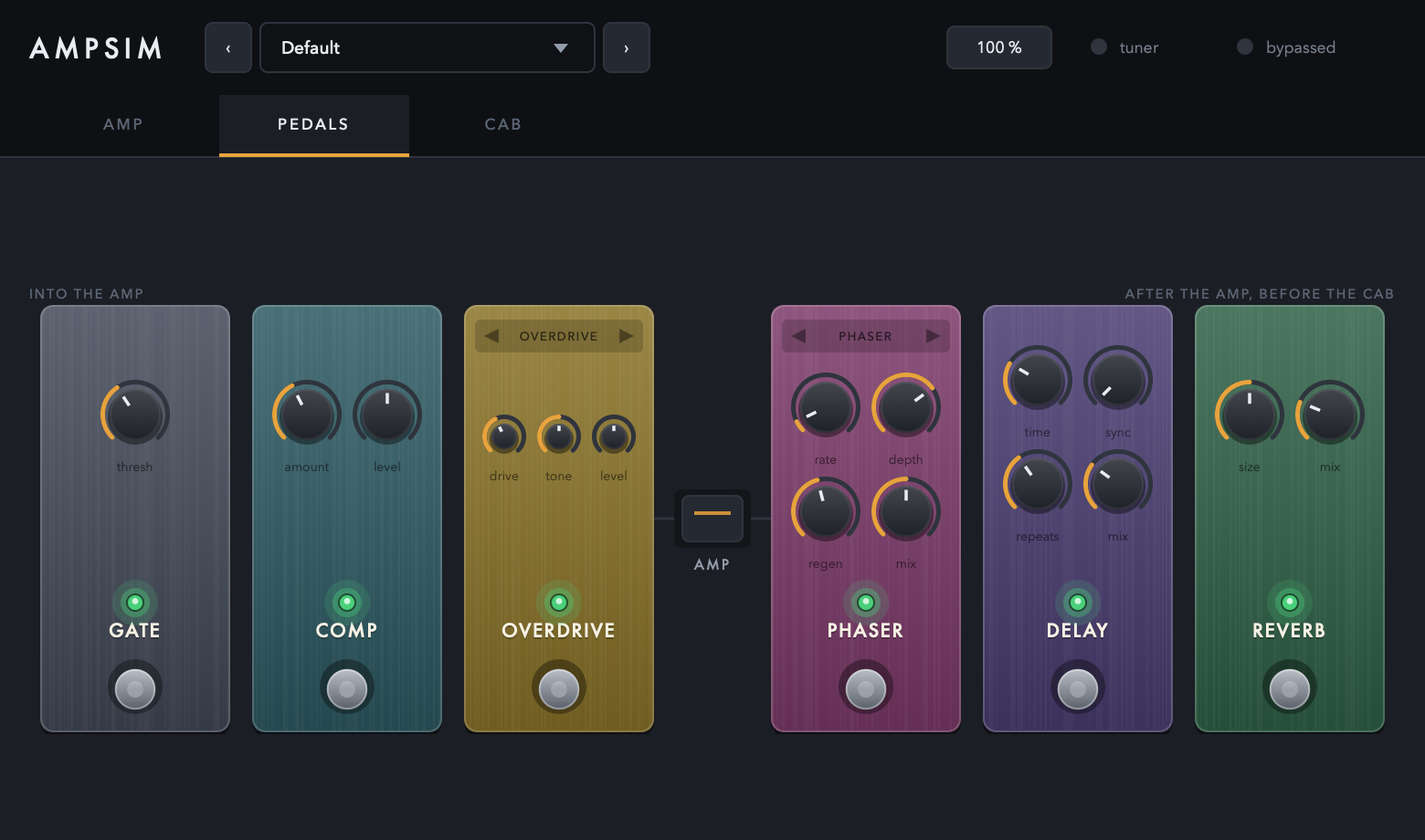
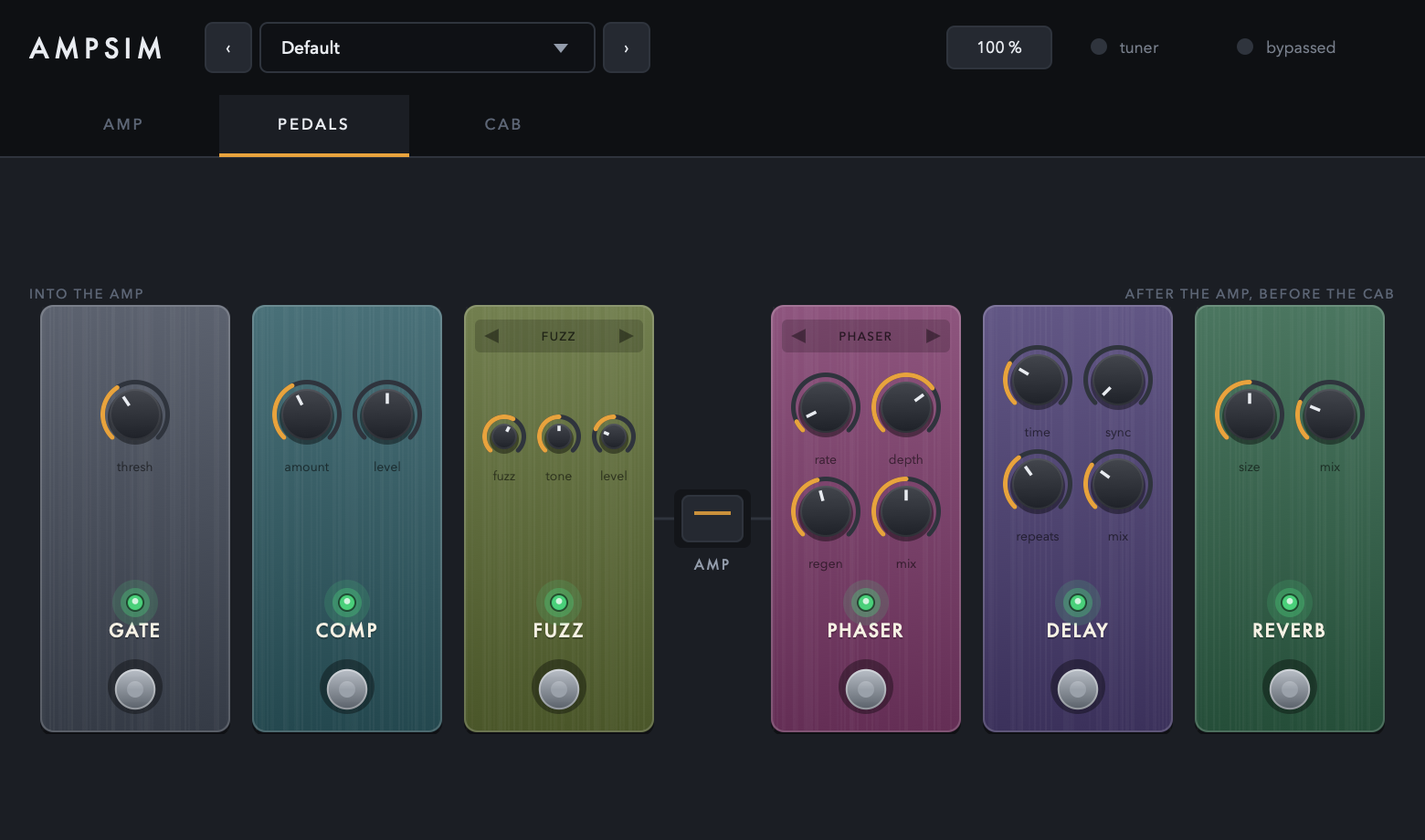
Add a fuzz to the dirt slot, and fix the slot's names selecting the wrong pedal
The fuzz is a fourth choice, and it is not a distortion turned up. Its clipper is
offset so that its operating point sits below the range it will pass: a silent
input produces a constant, a small one crosses in on its positive half only, and
a loud one fills the range and squares off lopsidedly. That is where the second
harmonic and the splutter as a note dies both come from, and neither appears by
adding gain to a symmetric clipper. Measured: the second harmonic sits more than
20 dB above the distortion's, and a signal under its threshold comes out 54 dB
quieter than the same signal through the distortion, while a loud one passes in
full.

The slot now blocks DC on its way out, at 15 Hz in the oversampled path. The
fuzz needs it — its offset is the whole mechanism — and the overdrive's
asymmetric shaper has been quietly producing a smaller one all along, which the
tone control was tilting and the amp model was being given.

**And the names were selecting the wrong pedals, which shipped.** The Type enum
ran overdrive, distortion, cleanBoost while the parameter's choices read
Distortion, Overdrive, Clean Boost, and the processor turns that index straight
into a Type — so choosing Distortion gave the overdrive's circuit and choosing
Overdrive gave the distortion's. It sounds like a different pedal rather than
like a bug, which is why nothing caught it. The enum, the choice list and the
drawn pedal's variants are now one order in three places, and a test asserts
[…]

Changed region(s): [[0.3077, 0.3652, 0.4615, 0.8826]]

diff --git a/docs/guide/index.html b/docs/guide/index.html
@@ -367,7 +367,7 @@
         { x: 9.5, y: 81.7, title: "Footswitches and LEDs", body: "<p>A pedal is switched in and out with its footswitch, and its LED lights <b>green</b> when it is in your signal — the same green the tuner lamp uses.</p><p>The switch sits down while it is on, the way a latching stomp switch does.</p>" },
         { x: 9.5, y: 50.7, title: "Gate", body: "<p>Listens at the very front, to your guitar before anything has touched it, and closes on the other side of the amp — so it silences the amp's own hiss, not just noise arriving at the input.</p><ul><li><b>thresh</b>: −80 to −40 dB of your raw guitar, opening at −65 dB by default.</li><li>It closes gently — 3:1 rather than a hard cut — so a note that decays past the threshold fades instead of being chopped.</li></ul><p>Set it as low as will still silence your hum. Too high and the tails of held notes go with it.</p>" },
         { x: 24.4, y: 50.7, title: "Compressor", body: "<p>A single <b>amount</b> knob runs the threshold down and the ratio up together, so it goes from a gentle levelling to a squashed, sustaining sound without three controls to balance.</p><ul><li><b>amount</b>: 0 to 1, 0.4 by default.</li><li><b>level</b>: ±12 dB of make-up, for matching the level with the pedal off.</li></ul>" },
-        { x: 39.2, y: 50.7, title: "The dirt slot", body: "<p>One of three pedals, chosen with the arrows across the top. Whatever is in it is oversampled four times, so none of them alias, and the slot reports the same latency whichever you pick.</p><ul><li><b>Distortion</b> \u2014 more gain, a harder knee, and the whole range going into the clipper. It makes its own sound rather than leaning on the amp's.</li><li><b>Overdrive</b> \u2014 the screamer. Only what is above about 700 Hz is driven hard, so the low end keeps its shape. This is the one that pushes an amp rather than replacing it; try <b>drive</b> low and <b>level</b> high.</li><li><b>Clean boost</b> \u2014 no clipping at all, just level and a tilt. What it drives is the amp.</li></ul>" },
+        { x: 39.2, y: 50.7, title: "The dirt slot", body: "<p>One of four pedals, chosen with the arrows across the top. Whatever is in it is oversampled four times, so none of them alias, and the slot reports the same latency whichever you pick.</p><ul><li><b>Distortion</b> \u2014 more gain, a harder knee, and the whole range going into the clipper. It makes its own sound rather than leaning on the amp's.</li><li><b>Overdrive</b> \u2014 the screamer. Only what is above about 700 Hz is driven hard, so the low end keeps its shape. This is the one that pushes an amp rather than replacing it; try <b>drive</b> low and <b>level</b> high.</li><li><b>Fuzz</b> \u2014 not a distortion turned up. Its clipper is offset, so a small signal only gets through on one half of the cycle and a very small one does not get through at all: that is the lopsided sound and the splutter as a note dies. Far more gain than the others, so its level starts lower.</li><li><b>Clean boost</b> \u2014 no clipping at all, just level and a tilt. What it drives is the amp.</li></ul>" },
         { x: 60.8, y: 50.7, title: "The modulation slot", body: "<p>One of four, again chosen with the arrows. All of them move something with a slow oscillator, and what they move is the whole difference.</p><ul><li><b>Chorus</b> \u2014 a delayed copy whose delay wanders, mixed back in: two instruments almost in tune with each other.</li><li><b>Flanger</b> \u2014 the same idea with a far shorter delay and the output fed back, so the comb is deep enough to hear as a sweep. <b>regen</b> sharpens it.</li><li><b>Phaser</b> \u2014 no delay at all: all-pass filters whose corner moves, notching the spectrum where their phase shift meets the dry signal.</li><li><b>Tremolo</b> \u2014 nothing moves but the volume. <b>shape</b> runs from a sine to something close to a square, which is the difference between a valve tremolo and a chopper.</li></ul><p>Whichever is in the slot keeps running while it is switched out, so engaging it picks up a sweep already going rather than one starting from the top.</p>" },
         { x: 75.6, y: 50.7, title: "Delay", body: "<p><ul><li><b>time</b>: 20 ms to 1.2 s, shown in milliseconds. Ignored while <b>sync</b> is set to a note length.</li> <li><b>sync</b>: <b>Free</b>, or a note length from 1/2 down to 1/16, including dotted and triplet. The repeats then follow your host's tempo and move with it. A standalone has no tempo to follow, so it assumes 120 BPM.</li><li><b>repeats</b>: up to 0.95 — high, but short of self-oscillation.</li><li><b>mix</b>.</li></ul></p><p>Like the chorus, it keeps running while off, so switching it on does not start the line empty.</p>" },
         { x: 90.5, y: 50.7, title: "Reverb", body: "<p><b>size</b> and <b>mix</b>. Last in the chain before the cabinet, so the tail comes out through the speaker rather than around it.</p><p><b>mix</b> adds reverb to your signal rather than trading one for the other: your dry sound stays where it is at every setting, and at the top of the control the reverb reaches the same level as it.</p>" }

diff --git a/tests/PedalTests.cpp b/tests/PedalTests.cpp
@@ -870,3 +870,121 @@ TEST_CASE ("Changing what is in a slot fades rather than cutting", "[pedals]")
     // block during the change is far quieter than the slot ever gets when nothing changes.
     REQUIRE (switchedQuietest < 0.3f * baselineQuietest);
 }
+
+TEST_CASE ("Choosing a pedal by name gets the pedal with that name", "[pedals]")
+{
+    // The parameter's choice list, the Type enum and the variants on the drawn pedal are one list
+    // written in three places, and nothing but this test holds them together. They came apart
+    // once: every name selected its neighbour's circuit, which sounds like a different pedal
+    // rather than like a bug, so nothing else noticed.
+    auto processor = test::makePreparedProcessor();
+    auto& state = processor->getValueTreeState();
+
+    auto* choice = dynamic_cast<juce::AudioParameterChoice*> (state.getParameter (ParamID::dirtType));
+    REQUIRE (choice != nullptr);
+
+    const auto indexOf = [&choice] (const juce::String& name)
+    {
+        const auto index = choice->choices.indexOf (name);
+        REQUIRE (index >= 0);
+        return index;
+    };
+
+    // The names, in the order the enum gives them.
+    REQUIRE (indexOf ("Distortion")  == (int) DirtPedal::Type::distortion);
+    REQUIRE (indexOf ("Overdrive")   == (int) DirtPedal::Type::overdrive);
+    REQUIRE (indexOf ("Fuzz")        == (int) DirtPedal::Type::fuzz);
+    REQUIRE (indexOf ("Clean Boost") == (int) DirtPedal::Type::cleanBoost);
+
+    // And the same for the modulation slot.
+    auto* modulation = dynamic_cast<juce::AudioParameterChoice*> (state.getParameter (ParamID::modulationType));
+    REQUIRE (modulation != nullptr);
+
+    REQUIRE (modulation->choices.indexOf ("Chorus")  == (int) ModulationPedal::Type::chorus);
+    REQUIRE (modulation->choices.indexOf ("Flanger") == (int) ModulationPedal::Type::flanger);
+    REQUIRE (modulation->choices.indexOf ("Phaser")  == (int) ModulationPedal::Type::phaser);
+    REQUIRE (modulation->choices.indexOf ("Tremolo") == (int) ModulationPedal::Type::tremolo);
+}
+
+TEST_CASE ("The fuzz is lopsided where the distortion is not", "[pedals]")
+{
+    // What separates a fuzz from a distortion at the same setting: its clipper is offset, so the
+    // two halves of the wave are treated differently and the second harmonic comes up. A
+    // symmetric clipper cannot make one however hard it is driven.
+    const auto secondHarmonicDb = [] (DirtPedal::Type type)
+    {
+        constexpr double frequency = 220.0;
+
+        PedalChain::Settings settings;
+        settings.driveEngaged = true;
+        settings.dirtType = type;
+        settings.driveAmount = 0.6f;
+        settings.driveTone = 0.5f;
+
+        auto chain = makeChain (settings);
+
+        const auto input = Signal::sine (frequency, test::blockSize * 60, 0.2f);
+        const auto output = runThrough (*chain, input, true);
+
+        // One bin of a DFT, by hand: correlate against a sine and a cosine at the frequency.
+        const auto magnitudeAt = [&output] (double hz)
+        {
+            double real = 0.0, imaginary = 0.0;
+            const auto from = (size_t) (test::blockSize * 30);
+
+            for (size_t i = from; i < output.size(); ++i)
+            {
+                const auto phase = juce::MathConstants<double>::twoPi * hz * (double) (i - from) / sr;
+                real += output[i] * std::cos (phase);
+                imaginary += output[i] * std::sin (phase);
+            }
+
+            return std::sqrt (real * real + imaginary * imaginary);
+        };
+
+        return juce::Decibels::gainToDecibels ((float) (magnitudeAt (2.0 * frequency)
+                                                            / juce::jmax (1.0e-12, magnitudeAt (frequency))));
+    };
+
+    const auto fuzz = secondHarmonicDb (DirtPedal::Type::fuzz);
+    const auto distortion = secondHarmonicDb (DirtPedal::Type::distortion);
+
+    INFO ("second harmonic: fuzz " << fuzz << " dB, distortion " << distortion << " dB");
+    REQUIRE (fuzz - distortion > 20.0f);
+}
+
+TEST_CASE ("The fuzz cuts off where a note dies rather than fading with it", "[pedals]")
+{
+    // Its operating point sits below what its clipper will pass, so a signal under a certain level
+    // never crosses into the range at all. That is the splutter people buy a fuzz for, and it is
+    // the reason it is not a distortion with more gain.
+    const auto levelThrough = [] (DirtPedal::Type type, float amplitude)
+    {
+        PedalChain::Settings settings;
+        settings.driveEngaged = true;
+        settings.dirtType = type;
+        settings.driveAmount = 0.5f;
+        settings.driveTone = 0.5f;
+
+        auto chain = makeChain (settings);
+
+        const auto input = Signal::sine (220.0, test::blockSize * 40, amplitude);
+        return Signal::rms (runThrough (*chain, input, true), test::blockSize * 20);
+    };
+
+    const auto quietThroughFuzz = levelThrough (DirtPedal::Type::fuzz, 5.0e-4f);
+    const auto quietThroughDistortion = levelThrough (DirtPedal::Type::distortion, 5.0e-4f);
+    const auto loudThroughFuzz = levelThrough (DirtPedal::Type::fuzz, 0.2f);
+
+    INFO ("a small signal: " << quietThroughFuzz << " through the fuzz, "
+          << quietThroughDistortion << " through the distortion");
+    INFO ("a large one through the fuzz: " << loudThroughFuzz);
+
+    // The same small signal, and the fuzz all but swallows it where the distortion merely makes
+    // it quiet — which is what a clipper does and is not what a fuzz does.
+    REQUIRE (juce::Decibels::gainToDecibels (quietThroughFuzz / quietThroughDistortion) < -20.0f);
+
+    // And a signal it will pass comes through in full, so this is a threshold rather than a pedal
+    // that has simply stopped working.
+    REQUIRE (loudThroughFuzz > 0.05f);
+}

diff --git a/src/dsp/pedals/DirtPedal.cpp b/src/dsp/pedals/DirtPedal.cpp
@@ -29,6 +29,15 @@ namespace
         return 1.5f * x - 0.5f * x * x * x;
     }
 
+    /** Clipped between two points that are not either side of zero, with the signal offset into
+        them. A silent input sits below the floor, so it produces a constant that the blocker after
+        this removes; a quiet one crosses in on its positive half only, giving the thin pulses a
+        fuzz makes as a note dies; a loud one fills the range and squares off lopsidedly. */
+    inline float shapeFuzz (float x) noexcept
+    {
+        return juce::jlimit (DirtPedal::fuzzFloor, DirtPedal::fuzzCeiling, x + DirtPedal::fuzzBias);
+    }
+
     /** How much gain the drive control puts into the shaper, per type. A distortion pedal is not
         an overdrive turned up: it starts further along and goes further. */
     inline float driveRangeDb (DirtPedal::Type type) noexcept
@@ -38,6 +47,7 @@ namespace
             case DirtPedal::Type::overdrive:  return 36.0f;
             case DirtPedal::Type::distortion: return 48.0f;
             case DirtPedal::Type::cleanBoost: return 20.0f;
+            case DirtPedal::Type::fuzz:       return 60.0f;
         }
 
         return 0.0f;
@@ -57,6 +67,12 @@ void DirtPedal::prepare (double sampleRate, int maxBlockSize)
 
     boostFilter.prepare (overSpec);
     toneFilter.prepare (overSpec);
+    dcBlocker.prepare (overSpec);
+
+    // Asymmetric clipping produces a standing offset, and the fuzz's produces a large one by
+    // design. Below anything a guitar plays, so it takes the offset and nothing else.
+    *dcBlocker.coefficients =
+        juce::dsp::IIR::ArrayCoefficients<float>::makeFirstOrderHighPass (oversampledRate, 15.0f);
 
     level.prepare (spec);
     level.setRampDurationSeconds (0.05);
@@ -81,6 +97,7 @@ void DirtPedal::reset()
     level.reset();
     boostFilter.reset();
     toneFilter.reset();
+    dcBlocker.reset();
 }
 
 int DirtPedal::getLatencySamples() const
@@ -144,6 +161,7 @@ void DirtPedal::process (float* samples, int numSamples, bool bypassed)
         updateFilters();
         boostFilter.reset();
         toneFilter.reset();
+        dcBlocker.reset();
 
         swapping = false;
         typeFade.setTargetValue (1.0f);
@@ -162,7 +180,7 @@ void DirtPedal::process (float* samples, int numSamples, bool bypassed)
     {
         auto* data = upsampled.getChannelPointer (0);
         const auto boostOnly = currentType == Type::cleanBoost;
-        const auto soft = currentType == Type::overdrive;
+        const auto type = currentType;
 
         for (size_t i = 0; i < upsampled.getNumSamples(); ++i)
         {
@@ -175,7 +193,20 @@ void DirtPedal::process (float* samples, int numSamples, bool bypassed)
                                     : input + gain * boostFilter.processSample (input);
 
             if (! boostOnly)
-                shaped = soft ? shapeSoft (shaped) : shapeHard (shaped);
+            {
+                switch (type)
+                {
+                    case Type::overdrive:  shaped = shapeSoft (shaped); break;
+                    case Type::fuzz:       shaped = shapeFuzz (shaped); break;
+                    case Type::distortion:
+                    case Type::cleanBoost:
+                    default:               shaped = shapeHard (shaped); break;
+                }
+
+                // Before the tone control, so the tilt is working on a signal that swings about
+                // zero rather than on one sitting on a shelf of its own making.
+                shaped = dcBlocker.processSample (shaped);
+            }
 
             // The tone control comes after the clipping, as it does in the box: the low pass is
             // its pivot, and what is under it and over it are mixed against each other, so the

diff --git a/src/dsp/pedals/DirtPedal.h b/src/dsp/pedals/DirtPedal.h
@@ -27,6 +27,11 @@
       - **Distortion** — more gain, a harder knee, and the whole range going into it. It makes its
         own sound instead of leaning on the amp's, which is why it can sit in front of a clean
         capture and still be a distorted guitar.
+      - **Fuzz** — not a distortion turned up. Its operating point sits near cut-off, so a small
+        signal only gets through on one half of the cycle and a very small one does not get
+        through at all. That is where the lopsided waveform, the even harmonics and the splutter
+        as a note dies away all come from, and none of them appear by adding gain to a symmetric
+        clipper.
       - **Clean boost** — no clipping at all, just level and a tilt. What it drives is the amp.
 
     Oversampled 4x whichever is selected, because a waveshaper folds harmonics above Nyquist back
@@ -36,7 +41,11 @@
 class DirtPedal
 {
 public:
-    enum class Type { overdrive, distortion, cleanBoost };
+    /** The order here is the order of the `dirtType` parameter's choices, and of the variants on
+        the pedal that selects them. The processor turns that parameter's index straight into one
+        of these, so the three lists are one list in three places — a test asserts they still line
+        up, because they did not once. */
+    enum class Type { distortion, overdrive, fuzz, cleanBoost };
 
     void prepare (double sampleRate, int maxBlockSize);
     void reset();
@@ -67,6 +76,14 @@ public:
     /** Where the tone control tilts about. */
     static constexpr double tiltCornerHz = 720.0;
 
+    /** The fuzz's operating point, as the two ends of what its clipper will pass and the offset
+        its input sits at. The floor is *above* where the offset puts a silent input, which is what
+        makes it cut off rather than fade: below a certain level nothing crosses into the range at
+        all, and just above it only the positive half does. */
+    static constexpr float fuzzFloor = -0.25f;
+    static constexpr float fuzzCeiling = 1.0f;
+    static constexpr float fuzzBias = -0.3f;
+
 private:
     void updateFilters();
 
@@ -76,7 +93,7 @@ private:
                                                   juce::dsp::Oversampling<float>::filterHalfBandPolyphaseIIR };
 
     juce::dsp::Gain<float> level;
-    juce::dsp::IIR::Filter<float> boostFilter, toneFilter;
+    juce::dsp::IIR::Filter<float> boostFilter, toneFilter, dcBlocker;
     juce::SmoothedValue<float> toneAmount, driveGain;
 
     std::atomic<Type> pendingType { Type::distortion };

diff --git a/src/PluginProcessor.cpp b/src/PluginProcessor.cpp
@@ -178,7 +178,7 @@ juce::AudioProcessorValueTreeState::ParameterLayout AmpSimAudioProcessor::create
     // saved before the slot existed lands on it and keeps its knob positions.
     layout.add (std::make_unique<juce::AudioParameterChoice> (
         juce::ParameterID { ParamID::dirtType, 1 }, "Dirt Pedal",
-        juce::StringArray { "Distortion", "Overdrive", "Clean Boost" }, 0));
+        juce::StringArray { "Distortion", "Overdrive", "Fuzz", "Clean Boost" }, 0));
     addKnob (ParamID::driveAmount, "Drive", 0.0f, 1.0f, 0.5f);
     addKnob (ParamID::driveTone, "Drive Tone", 0.0f, 1.0f, 0.5f);
     addKnob (ParamID::driveLevel, "Drive Level", -12.0f, 12.0f, 0.0f, "dB");
@@ -186,6 +186,10 @@ juce::AudioProcessorValueTreeState::ParameterLayout AmpSimAudioProcessor::create
     addKnob (ParamID::odAmount, "Overdrive", 0.0f, 1.0f, 0.4f);
     addKnob (ParamID::odTone, "Overdrive Tone", 0.0f, 1.0f, 0.5f);
     addKnob (ParamID::odLevel, "Overdrive Level", -12.0f, 12.0f, 0.0f, "dB");
+
+    addKnob (ParamID::fuzzAmount, "Fuzz", 0.0f, 1.0f, 0.6f);
+    addKnob (ParamID::fuzzTone, "Fuzz Tone", 0.0f, 1.0f, 0.5f);
+    addKnob (ParamID::fuzzLevel, "Fuzz Level", -12.0f, 12.0f, -6.0f, "dB");
 
     addKnob (ParamID::boostLevel, "Boost", 0.0f, 1.0f, 0.5f);
     addKnob (ParamID::boostTone, "Boost Tone", 0.0f, 1.0f, 0.5f);
@@ -395,6 +399,12 @@ PedalChain::Settings AmpSimAudioProcessor::currentPedalSettings() const
             s.driveAmount = value (ParamID::odAmount);
             s.driveTone = value (ParamID::odTone);
             s.driveLevelDb = value (ParamID::odLevel);
+            break;
+
+        case DirtPedal::Type::fuzz:
+            s.driveAmount = value (ParamID::fuzzAmount);
+            s.driveTone = value (ParamID::fuzzTone);
+            s.driveLevelDb = value (ParamID::fuzzLevel);
             break;
 
         case DirtPedal::Type::cleanBoost:

diff --git a/src/ui/PedalsPage.cpp b/src/ui/PedalsPage.cpp
@@ -28,6 +28,7 @@ namespace
     const juce::Colour distortionBody { 0xff8c3f2e };
     const juce::Colour overdriveBody  { 0xff8a7327 };
     const juce::Colour boostBody      { 0xff7b7f88 };
+    const juce::Colour fuzzBody       { 0xff5c6b33 };
 
     const juce::Colour chorusBody  { 0xff3a4f86 };
     const juce::Colour flangerBody { 0xff2f6e7a };
@@ -47,6 +48,9 @@ PedalsPage::PedalsPage (juce::AudioProcessorValueTreeState& state)
                { "overdrive",  overdriveBody,  { { ParamID::odAmount, "drive" },
                                                  { ParamID::odTone, "tone" },
                                                  { ParamID::odLevel, "level" } } },
+               { "fuzz",       fuzzBody,       { { ParamID::fuzzAmount, "fuzz" },
+                                                 { ParamID::fuzzTone, "tone" },
+                                                 { ParamID::fuzzLevel, "level" } } },
                { "boost",      boostBody,      { { ParamID::boostLevel, "boost" },
                                                  { ParamID::boostTone, "tone" } } } }),
       chorus (state, ParamID::chorusOn, ParamID::modulationType,

diff --git a/src/PluginProcessor.h b/src/PluginProcessor.h
@@ -74,6 +74,10 @@ namespace ParamID
     inline constexpr const char* odTone           = "odTone";
     inline constexpr const char* odLevel          = "odLevel";
 
+    inline constexpr const char* fuzzAmount       = "fuzzAmount";
+    inline constexpr const char* fuzzTone         = "fuzzTone";
+    inline constexpr const char* fuzzLevel        = "fuzzLevel";
+
     inline constexpr const char* boostLevel       = "boostLevel";
     inline constexpr const char* boostTone        = "boostTone";
 

diff --git a/CLAUDE.md b/CLAUDE.md
@@ -213,8 +213,8 @@ normalises each IR independently, which is the thing to avoid here.
 calls, not one list**, so the amp physically cannot end up on the wrong side of a pedal. The
 placement is the design; do not add a "reorder" feature without revisiting `ampsim_plan.md`.
 
-**Two of the six are slots rather than pedals.** `DirtPedal` holds a distortion, an overdrive or a
-clean boost; `ModulationPedal` holds a chorus, a flanger, a phaser or a tremolo. Substitution is
+**Two of the six are slots rather than pedals.** `DirtPedal` holds a distortion, an overdrive, a
+fuzz or a clean boost; `ModulationPedal` holds a chorus, a flanger, a phaser or a tremolo. Substitution is
 not reordering — what each position does to the signal, and which side of the amp it is on, is
 unchanged — so it does not touch the rule above.
 
@@ -226,6 +226,16 @@ unchanged — so it does not touch the rule above.
 - **The IDs keep the names they had.** `driveOn`, `driveAmount` and the chorus's are what the
   slots were called when each held one pedal, and a saved session looks parameters up by ID. The
   first choice in each slot is therefore the pedal that used to be there.
+- **The `Type` enum, the parameter's choice list and the drawn pedal's variants are one list in
+  three places.** The processor turns the parameter's index straight into a `Type`, so an order
+  that differs anywhere makes every name select its neighbour's circuit — which sounds like a
+  different pedal rather than like a bug, and shipped that way once. `tests/PedalTests.cpp` asserts
+  the names and the enum line up.
+- **The dirt slot blocks DC on its way out.** The fuzz's clipper is offset on purpose and the
+  overdrive's shaper is asymmetric, so both produce a standing offset; a one-pole high pass at
+  15 Hz in the oversampled path takes it before the tone control sees it. Without that the tilt
+  would be working on a signal sitting on a shelf of its own making, and the amp model would be
+  given a biased input.
 - **A type change fades.** Two pedals in a slot sound nothing alike, so `DirtPedal` and
   `ModulationPedal` each dip to silence and back around the swap. The fade is about one block
   long, which is why the test measures a 64-sample window rather than a block peak — a whole block

diff --git a/docs/roadmap.md b/docs/roadmap.md
@@ -12,18 +12,6 @@ agreed, which is why it is not here.
 Asked for and not yet started. The notes under each are what is known now, not decisions — but a
 couple of them are things whoever picks the item up would otherwise find out the hard way.
 
-### A fuzz in the dirt slot
-
-A fourth choice alongside the distortion, the overdrive and the clean boost. The slot mechanism is
-already there, so this is a `DirtPedal::Type`, a `StringArray` entry, a shaper and a colour.
-
-Worth knowing before writing the shaper: **a fuzz is not a distortion turned up.** What makes one
-recognisable is the behaviour at the edges rather than the amount — a hard, heavily asymmetric
-clip with the bias well off centre, so the waveform is lopsided; a thin, splutter-prone response
-to a signal that is fading or picked softly, which is the "dying battery" character people buy one
-for; and far more gain before it gets there. Turning the existing `shapeHard` up will not produce
-any of that.
-
 ### Transpose, on the top bar
 
 A switch and a semitone dial, ±12, holding a constant interval — retuning the instrument rather
@@ -111,6 +99,14 @@ What was decided along the way, so it is not re-litigated:
   Which side of the amp a pedal is on is the design of that section, and a single run says it as
   signal flow instead of as a caption.
 - **No image assets**, which is what keeps scaling free.
+
+### A fuzz in the dirt slot
+
+Built. A fourth choice, and not a distortion turned up: its clipper is offset so that its operating
+point sits below what it will pass, which is where the lopsided waveform, the second harmonic and
+the cut-off as a note dies all come from. Measured rather than asserted by ear — the second
+harmonic sits more than 20 dB above the distortion's, and a signal below its threshold comes out
+54 dB quieter than the same signal through the distortion.
 
 ### How it was verified
 

diff --git a/README.md b/README.md
@@ -132,7 +132,7 @@ broke and nothing changed". Update it deliberately, in its own commit, and re-va
 ## Testing
 
 ```sh
-ctest --test-dir build                        # 107 tests
+ctest --test-dir build                        # 110 tests
 ctest --test-dir build --output-on-failure
 ctest --test-dir build -R "bypass"            # one test, or a pattern
 ```
